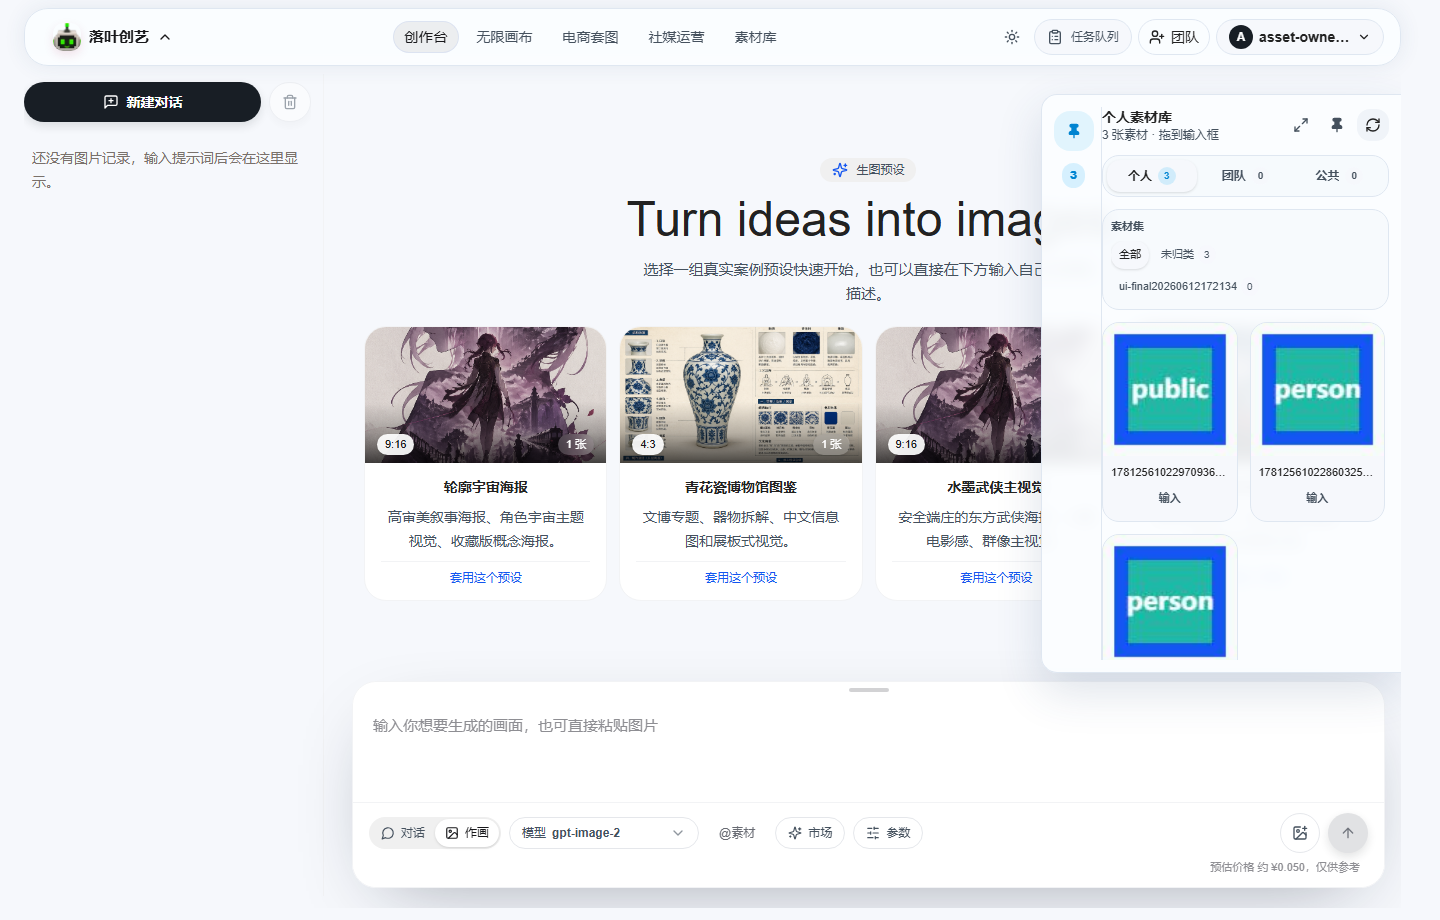
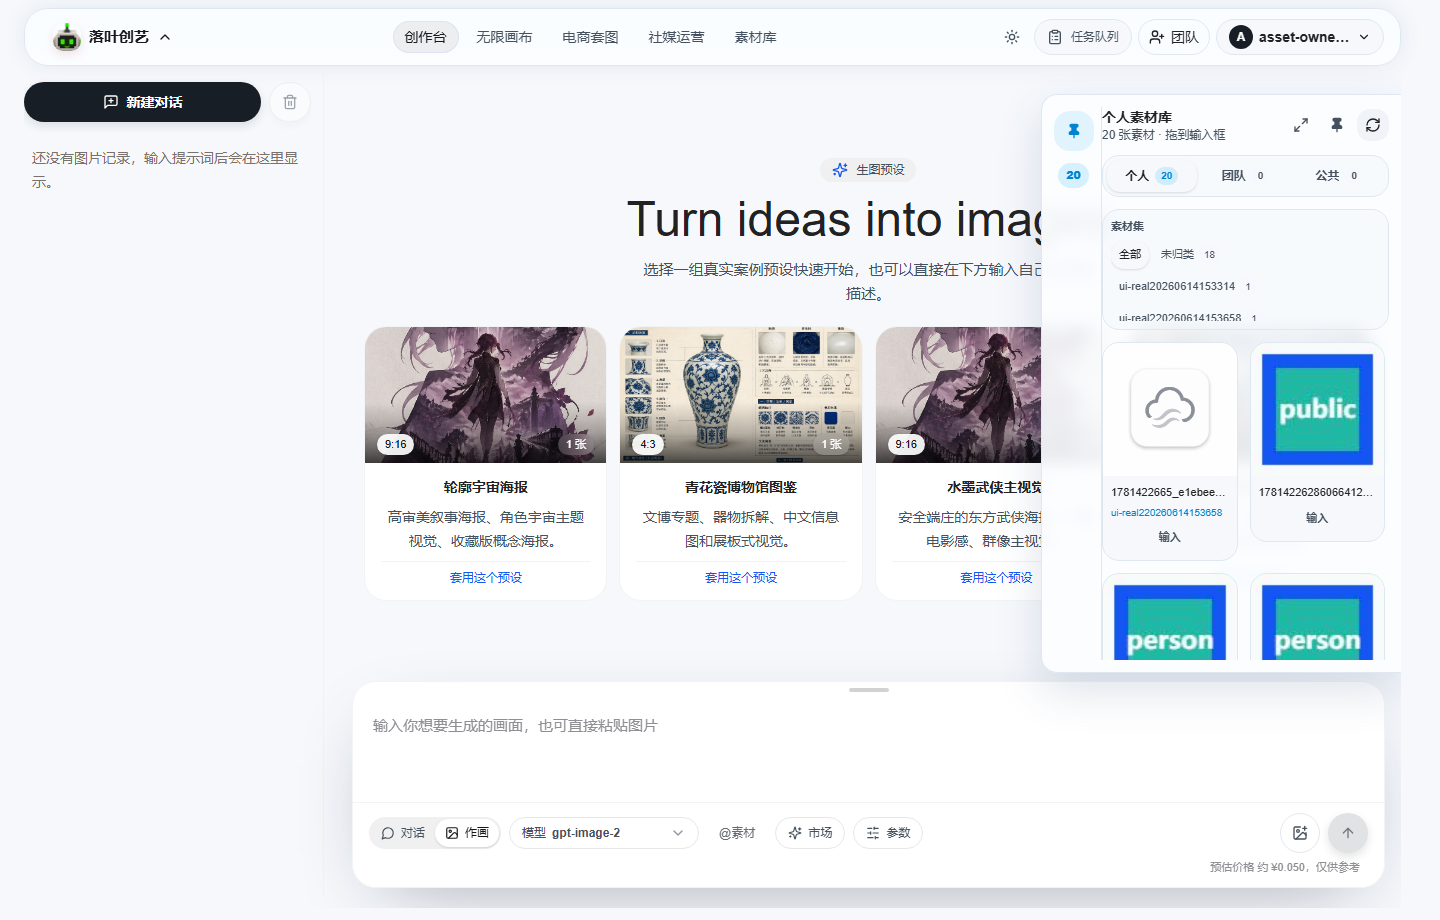
test: add optional real image smoke

diff --git a/docs/workflow/qa-reports/task-007-asset-library-smoke-qa.md b/docs/workflow/qa-reports/task-007-asset-library-smoke-qa.md
@@ -17,13 +17,18 @@
 - PASS: `/canvas` 素材库侧栏可显示同样筛选，并可把素材加入画布，画布节点可见。
 - PASS: session-probe iframe 只请求 `/studio-bridge/session-probe`，未请求 `62080/` 根路径，未复现 root-frame CSP 误报。
 - PASS: frontend lint/build 与 backend focused tests 均已通过。
+- PASS: smoke 脚本已支持可选真实 `gpt-image-2` 联调；默认关闭时记录 skipped optional check，不影响素材库主 gate。
+- PASS: `QA_REAL_IMAGE_GEN=1` 已实跑通过，任务 `asset-smoke-real-image-real220260614153658` 从 `/api/creation-tasks/image-generations` 提交到 `success`，生成图 `2026/06/14/1781422665_e1ebeea37adde84e71b2430f54965d31.png` 已进入素材库并归类到 `ui-real220260614153658`。
 
 ## Executed Checks
 
-- PASS: `cd F:/java/chatgpt2api/web && npm.cmd run lint`
-- PASS: `cd F:/java/chatgpt2api/web && npm.cmd run build`
-- PASS: `cd F:/java/chatgpt2api && go test ./internal/service ./internal/httpapi`
-- PASS: `cd F:/java/chatgpt2api && $env:NODE_PATH=(npm.cmd root -g); $env:QA_RUN_ID='final'+(Get-Date -Format 'yyyyMMddHHmmss'); node docs/workflow/evidence/task-007-asset-library-smoke/browser-smoke.cjs`
+- PASS: `cd F:/java/chatgpt2api/web && npm.cmd run lint` (pre-existing task-007 baseline)
+- PASS: `cd F:/java/chatgpt2api/web && npm.cmd run build` (pre-existing task-007 baseline)
+- PASS: `cd F:/java/chatgpt2api && go test ./internal/service ./internal/httpapi` (pre-existing task-007 baseline)
+- PASS: `cd F:/java/chatgpt2api && node --check docs/workflow/evidence/task-007-asset-library-smoke/browser-smoke.cjs`
+- PASS: `cd F:/java/chatgpt2api && $env:NODE_PATH=(npm.cmd root -g); Remove-Item Env:QA_REAL_IMAGE_GEN -ErrorAction SilentlyContinue; $env:QA_RUN_ID='default2'+(Get-Date -Format 'yyyyMMddHHmmss'); node docs/workflow/evidence/task-007-asset-library-smoke/browser-smoke.cjs`
+- PASS: `cd F:/java/chatgpt2api && $env:NODE_PATH=(npm.cmd root -g); $env:QA_REAL_IMAGE_GEN='1'; $env:QA_RUN_ID='real2'+(Get-Date -Format 'yyyyMMddHHmmss'); node docs/workflow/evidence/task-007-asset-library-smoke/browser-smoke.cjs`
+- PASS: `cd F:/java/chatgpt2api && git diff --check -- docs/workflow/evidence/task-007-asset-library-smoke/browser-smoke.cjs docs/workflow/evidence/task-007-asset-library-smoke/browser-smoke-result.json docs/workflow/qa-reports/task-007-asset-library-smoke-qa.md`
 
 ## Evidence
 
@@ -37,9 +42,9 @@
 
 ## Unverified Risks
 
-- Real `gpt-image-2` generation is intentionally out of scope for this smoke and remains optional deployment-stage verification.
+- Real `gpt-image-2` generation remains optional because it depends on upstream model availability, key binding, balance, and quota. When disabled, the smoke records a skipped optional check rather than failing the asset-library gate; when a task reaches `success`, material-library entry and collection assignment are hard checks.
 - The smoke intentionally treats expected `401` launch/session retries, team-member `403`, and public-scope `400` as non-fatal evidence for auth/permission behavior.
 
 ## Recommendation
 
-- 素材库验收闭环可作为 PASS 证据使用；后续上线前可按需追加真实 `gpt-image-2` 生图联调，不阻塞本轮素材库 smoke。
+- 素材库验收闭环可作为 PASS 证据使用；后续日常回归默认不耗费真实生图额度，上线前或扣费链路变更后再设置 `QA_REAL_IMAGE_GEN=1` 验证 `reserve -> generation -> commit -> 素材库归类`。
